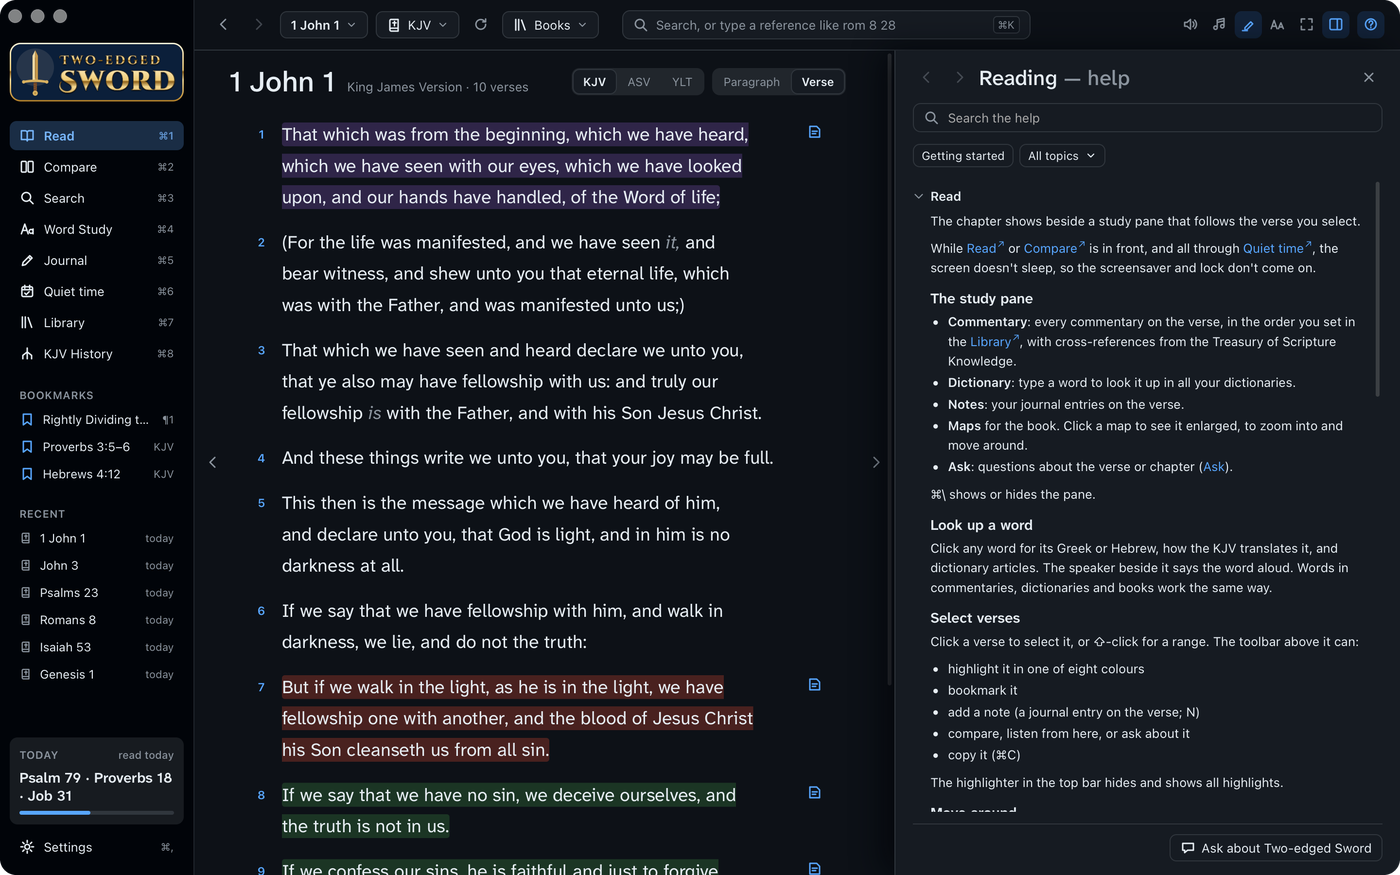
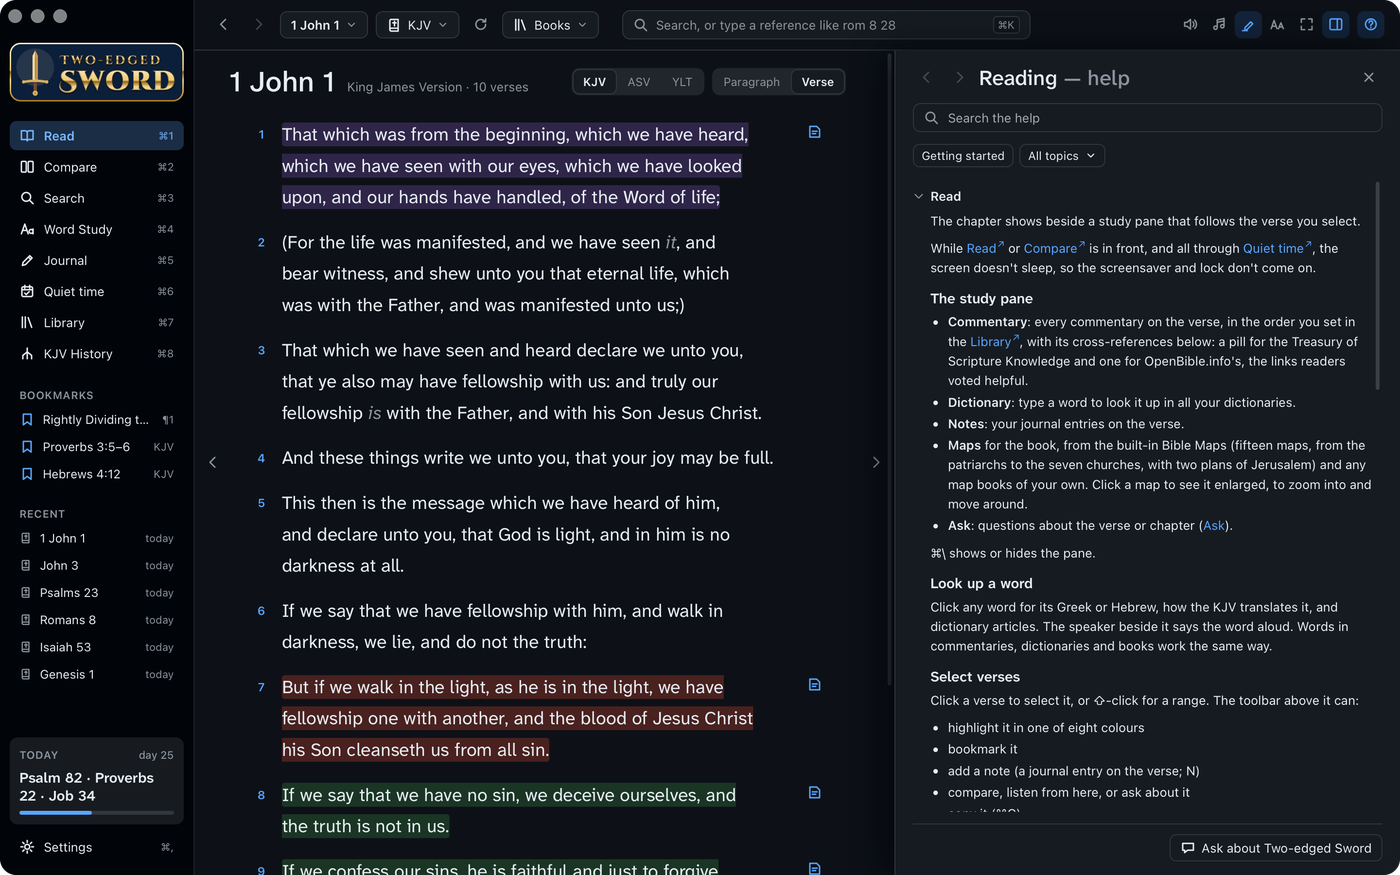
Study pane: OpenBible's cross-references sit with the TSK's under the commentary, a pill for each (the one chosen kept), not among the commentaries; the Library's Cross-references card lists both

Changed region(s): [[0.645, 0.3703, 0.9829, 0.9257], [0.0, 0.8331, 0.1229, 0.9257]]

diff --git a/src/StudyPane.tsx b/src/StudyPane.tsx
@@ -320,10 +320,10 @@ function CommentaryTab(p: Props & { vref: Ref }) {
   const list = useMemo(
     () =>
       orderModules(
-        cov.filter((c) => c.id !== app.tsk && c.range),
+        cov.filter((c) => !app.xrefs.includes(c.id) && c.range),
         app.settings.commentaryOrder,
       ),
-    [cov, app.tsk, app.settings.commentaryOrder],
+    [cov, app.xrefs, app.settings.commentaryOrder],
   );
   const current = (p.commentary && list.find((c) => c.id === p.commentary)) || list[0];
   useEffect(() => {
@@ -359,7 +359,7 @@ function CommentaryTab(p: Props & { vref: Ref }) {
     app.open({ book: r.book, chapter: r.chapter, verse: r.verse, to: r.to });
   };
   const html = intro === "chapter" ? data?.chapter : intro === "book" ? data?.book : data?.verse.map((e) => e.html).join("");
-  const others = cov.filter((c) => c.id !== app.tsk && !c.range);
+  const others = cov.filter((c) => !app.xrefs.includes(c.id) && !c.range);
   return (
     <>
       <div style={{ display: "flex", gap: 6, padding: "10px 18px 0", flexWrap: "wrap" }}>
@@ -488,13 +488,16 @@ function CrossRefs({
   onRefHover: (r: Ref | null, el: HTMLElement | null) => void;
 }) {
   const app = useApp();
+  // The TSK and OpenBible's, a pill each as the commentaries have; the one chosen is kept.
+  const mods = app.xrefs.map((id) => app.mod("commentary", id)).filter((m): m is ModuleInfo => !!m);
+  const cur = mods.find((m) => m.id === app.settings.crossRefs) ?? mods[0];
   const [html, setHtml] = useState<string | null>(null);
   const [open, setOpen] = useState(true);
   useEffect(() => {
-    if (!app.tsk) return;
+    if (!cur) return;
     let dead = false;
     api
-      .commentary(app.tsk, vref.book, vref.chapter, vref.verse!)
+      .commentary(cur.id, vref.book, vref.chapter, vref.verse!)
       .then((c) => {
         if (!dead) setHtml(c.verse.map((e) => e.html).join("") || null);
       })
@@ -504,9 +507,9 @@ function CrossRefs({
     return () => {
       dead = true;
     };
-  }, [app.tsk, vref.book, vref.chapter, vref.verse]);
-  if (!app.tsk || !html) return null;
-  const count = (html.match(/<ref>/g) || []).length;
+  }, [cur?.id, vref.book, vref.chapter, vref.verse]); // eslint-disable-line react-hooks/exhaustive-deps
+  if (!cur) return null;
+  const count = (html?.match(/<ref>/g) || []).length;
   return (
     <section
       aria-label="Cross-references"
@@ -522,30 +525,44 @@ function CrossRefs({
         minHeight: 0,
       }}
     >
-      <button
-        type="button"
-        onClick={() => setOpen(!open)}
-        style={{
-          display: "flex",
-          alignItems: "center",
-          justifyContent: "space-between",
-          border: 0,
-          background: "transparent",
-          padding: 0,
-          cursor: "pointer",
-        }}
-      >
-        <span className="label">Cross-references · Treasury of Scripture Knowledge</span>
-        <span style={{ display: "flex", alignItems: "center", gap: 6 }}>
+      <div style={{ display: "flex", alignItems: "center", gap: 6 }}>
+        <span className="label" style={{ marginRight: 4 }}>
+          Cross-references
+        </span>
+        {mods.length > 1 &&
+          mods.map((m) => (
+            <button
+              key={m.id}
+              type="button"
+              className={`chip ${cur.id === m.id ? "on" : ""}`}
+              title={m.title}
+              onClick={() => {
+                app.set({ crossRefs: m.id });
+                setOpen(true);
+              }}
+            >
+              {short(m)}
+            </button>
+          ))}
+        {mods.length === 1 && <span className="label">· {cur.title}</span>}
+        <button
+          type="button"
+          aria-label={open ? "Hide the cross-references" : "Show the cross-references"}
+          onClick={() => setOpen(!open)}
+          style={{ marginLeft: "auto", display: "flex", alignItems: "center", gap: 6, border: 0, background: "transparent", padding: 0, cursor: "pointer" }}
+        >
           <span className="n">{count}</span>
           <Icon name={open ? "down" : "up"} className="sm" />
-        </span>
-      </button>
-      {open && (
-        <div className="scroll es tsk" style={{ fontSize: 13, lineHeight: 1.9 }}>
-          {renderHtml(html, { onRef: onOpen, onRefHover })}
-        </div>
-      )}
+        </button>
+      </div>
+      {open &&
+        (html ? (
+          <div className="scroll es tsk" style={{ fontSize: 13, lineHeight: 1.9 }}>
+            {renderHtml(html, { onRef: onOpen, onRefHover })}
+          </div>
+        ) : (
+          <div className="n">None in {cur.title} for this verse.</div>
+        ))}
     </section>
   );
 }

diff --git a/src/Library.tsx b/src/Library.tsx
@@ -76,7 +76,7 @@ function Ordered({
 }) {
   const app = useApp();
   const ms = orderModules(
-    (app.lib?.modules ?? []).filter((m) => m.kind === kind && m.id !== app.tsk),
+    (app.lib?.modules ?? []).filter((m) => m.kind === kind && !app.xrefs.includes(m.id)),
     app.settings[orderKey],
   );
   const move = (i: number, d: number) => {
@@ -176,7 +176,7 @@ export function LibraryScreen() {
       setBusy(false);
     }
   };
-  const none = !!q && !ms.some((m) => m.id !== app.tsk && matches(m, q));
+  const none = !!q && !ms.some((m) => !app.xrefs.includes(m.id) && matches(m, q));
   // Modules the app has and e-Sword X has too: the user picks the copy read, the app's unless they choose e-Sword's.
   const both = ms.filter((m) => m.copies.includes("esword") && m.copies.length > 1 && (!q || matches(m, q)));
   const copyKey = (m: ModuleInfo) => `${m.kind}:${m.id}`;
@@ -404,17 +404,17 @@ export function LibraryScreen() {
         )}
         <div style={{ display: "grid", gridTemplateColumns: "repeat(auto-fill, minmax(280px, 1fr))", gap: 12 }}>
           <Ordered kind="commentary" title="Commentaries" orderKey="commentaryOrder" q={q} onInfo={showInfo} />
-          {app.tsk && !q && (
+          {app.xrefs.length > 0 && !q && (
             <div className="card" style={{ padding: "14px 16px" }}>
               <span style={{ display: "flex", justifyContent: "space-between" }}>
                 <span className="label">Cross-references</span>
-                <span className="n">{total(ms.filter((m) => m.id === app.tsk && m.kind === "commentary"))}</span>
+                <span className="n">{total(ms.filter((m) => app.xrefs.includes(m.id) && m.kind === "commentary"))}</span>
               </span>
-              {(() => {
-                const t = app.mod("commentary", app.tsk);
+              {app.xrefs.map((id) => {
+                const t = app.mod("commentary", id);
                 return (
                   t && (
-                    <div style={{ fontSize: 12.5, marginTop: 6, display: "flex", alignItems: "center", gap: 4 }}>
+                    <div key={id} style={{ fontSize: 12.5, marginTop: 6, display: "flex", alignItems: "center", gap: 4 }}>
                       <span style={{ flexGrow: 1 }} title={blurb(t)}>
                         {t.title}
                       </span>
@@ -422,9 +422,9 @@ export function LibraryScreen() {
                     </div>
                   )
                 );
-              })()}
+              })}
               <div className="hint" style={{ marginTop: 4 }}>
-                Always shown under the commentary.
+                Shown under the commentary, a pill for each.
               </div>
             </div>
           )}

diff --git a/src/state.tsx b/src/state.tsx
@@ -38,6 +38,8 @@ export interface Settings {
   favBibles: string[];
   hiddenBibles: string[];
   commentaryOrder: string[];
+  /** The cross-references shown under the commentary (a module in `xrefs`): "" for the first. */
+  crossRefs: string;
   dictionaryOrder: string[];
   voice: string;
   /** Voices for Bibles in Hebrew (and Aramaic) and in Greek: "" for the best one installed. */
@@ -120,6 +122,7 @@ const DEFAULTS: Settings = {
   favBibles: [],
   hiddenBibles: [],
   commentaryOrder: ["barnes", "henry", "clarke", "gill", "jfb", "wesley", "darby", "meyer"],
+  crossRefs: "",
   dictionaryOrder: ["isbe", "smith", "nave", "cyclopedia"],
   voice: "",
   voiceHebrew: "",
@@ -389,6 +392,8 @@ interface Ctx {
   lexicon: string | null;
   concordance: string | null;
   tsk: string | null;
+  /** The cross-reference modules, shown under the commentary rather than among the commentaries: the TSK, then OpenBible's. */
+  xrefs: string[];
   /** Looks for modules again; `esword` says whether to read e-Sword X's library (the setting if left out). */
   rescan: (esword?: boolean, eswordCopies?: string[]) => Promise<void>;
 
@@ -696,6 +701,8 @@ export function AppProvider({ children }: { children: ReactNode }) {
   const lexicon = find("lexicon", ["strong"], (m) => /strong/i.test(m.title));
   const concordance = find("lexicon", ["kjc"], (m) => /concordance/i.test(m.title));
   const tsk = find("commentary", ["tsk"], (m) => /treasury/i.test(m.title));
+  const openbible = find("commentary", ["openbible_xref"], (m) => /cross-ref/i.test(m.title));
+  const xrefs = useMemo(() => [tsk, openbible].filter((x): x is string => !!x), [tsk, openbible]);
 
   // Fall back to the first Bible if the saved one is gone.
   useEffect(() => {
@@ -823,6 +830,7 @@ export function AppProvider({ children }: { children: ReactNode }) {
     lexicon,
     concordance,
     tsk,
+    xrefs,
     rescan: async (esword, eswordCopies) => {
       const l = await api.rescan(typeof esword === "boolean" ? esword : settings.readEsword, eswordCopies ?? settings.eswordCopies);
       forgetSizes(); // a Bible's chapters are read again: it may be another copy now

diff --git a/src/WordLookup.tsx b/src/WordLookup.tsx
@@ -133,7 +133,7 @@ export function WordLookup({
             !dead &&
             setCov(
               orderModules(
-                c.filter((x) => x.range && x.id !== app.tsk),
+                c.filter((x) => x.range && !app.xrefs.includes(x.id)),
                 app.settings.commentaryOrder,
               ),
             ),
@@ -143,7 +143,7 @@ export function WordLookup({
     return () => {
       dead = true;
     };
-  }, [word, vref?.book, vref?.chapter, vref?.verse, app.tsk, app.settings.dictionaryOrder, app.settings.commentaryOrder]); // eslint-disable-line react-hooks/exhaustive-deps
+  }, [word, vref?.book, vref?.chapter, vref?.verse, app.xrefs, app.settings.dictionaryOrder, app.settings.commentaryOrder]); // eslint-disable-line react-hooks/exhaustive-deps
 
   const range = (c: Coverage) => {
     const l = c.range && vref ? rangeLabel(c.range, vref.chapter) : "";

diff --git a/docs/reading.md b/docs/reading.md
@@ -15,8 +15,8 @@ screensaver and lock don't come on.
 
 ### The study pane
 
-- **Commentary**: every commentary on the verse, in the order you set in the [Library](app:library#commentaries), with cross-references from the
-  Treasury of Scripture Knowledge.
+- **Commentary**: every commentary on the verse, in the order you set in the [Library](app:library#commentaries), with its
+  cross-references below: a pill for the Treasury of Scripture Knowledge and one for OpenBible.info's, the links readers voted helpful.
 - **Dictionary**: type a word to look it up in all your dictionaries.
 - **Notes**: your journal entries on the verse.
 - **Maps** for the book, from the built-in Bible Maps (fifteen maps, from the patriarchs to the seven churches, with two plans of

diff --git a/docs/getting-started.md b/docs/getting-started.md
@@ -126,7 +126,7 @@ Click a verse (not a word) to select it. ⇧-click selects a range. The study pa
 
 ### Commentaries and cross-references
 
-The **Commentary** tab has every commentary on the verse, one after another, and the cross-references from the Treasury of Scripture Knowledge below them.
+The **Commentary** tab has every commentary on the verse, one after another, and the cross-references below them: click **TSK** for the Treasury of Scripture Knowledge's or **OpenBible** for OpenBible.info's.
 
 - Choose which come first in the [Library](app:library#commentaries).
 - Hover a reference for the verse; click it to go there.
